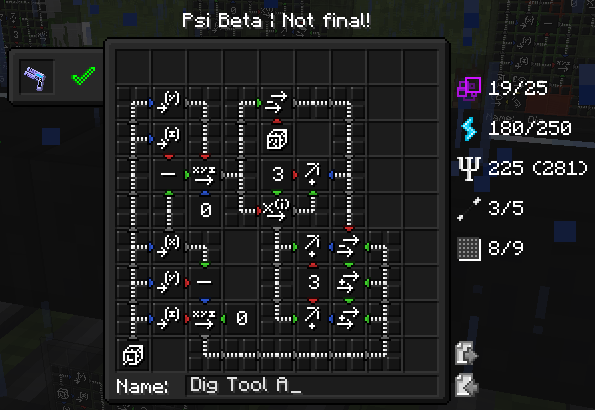
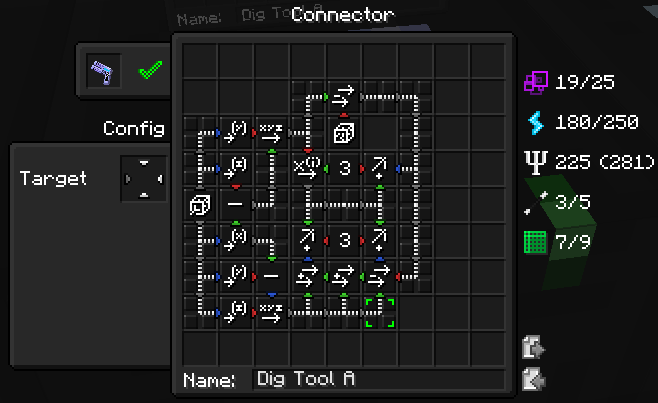
- Compressing the dig spells due to beta 16 changes - Dig & collect spell for tools

diff --git a/README.md b/README.md
@@ -3,9 +3,9 @@ Spells for Vazkii's Minecraft mod [Psi](http://psi.vazkii.us/index.php) ([Curse]
 You are completely free to use these spells any way you wish. Of course I appreciate a mention, but I don't require it =)
 
 ## Dig
-These spells are 3x3 mining spells. In contrast to the popular one found at [http://pastebin.com/JHAg8JMA](http://pastebin.com/JHAg8JMA) (Author unknown to me), these work along all 3 axes but do require greater infusion. The spell ```dig``` is for CAD use and requires a CAD capable of complexity 25 and bandwidth 9. The ```dig tool``` spells are for use in Psimetal tools. Version ```A``` requires complexity 19 and bandwidth 8, ```B``` 23 and 7 respectively.
+These spells are 3x3 mining spells. In contrast to the popular one found at [http://pastebin.com/JHAg8JMA](http://pastebin.com/JHAg8JMA) (Author unknown to me), these work along all 3 axes but do require greater infusion. The spell ```dig``` is for CAD use and requires a CAD capable of complexity 25 and bandwidth 8. The ```dig tool``` spells are for use in Psimetal tools. Version ```A``` requires complexity 19 and bandwidth 7, ```B``` 23 and 7 respectively (as of beta 16 no longer an improvement). The collect spell draws in broken blocks as well.
 
-Tested Psi vsersion: beta-11
+Tested Psi vsersion: beta-16
 
 ## Fertilize
 First try at an area fertilize spell. Used with a circle spell bullet it will fertilize a 4 deep and 5 wide area to the right of the block you are targeting. Note: The spell uses the axial look vector of the caster to determine orientation. If you look away it will fertilize the wrong blocks. Also don't look mostly downwards or it will fail completely. Fixing this would make the spell a lot more complex than it is now.
